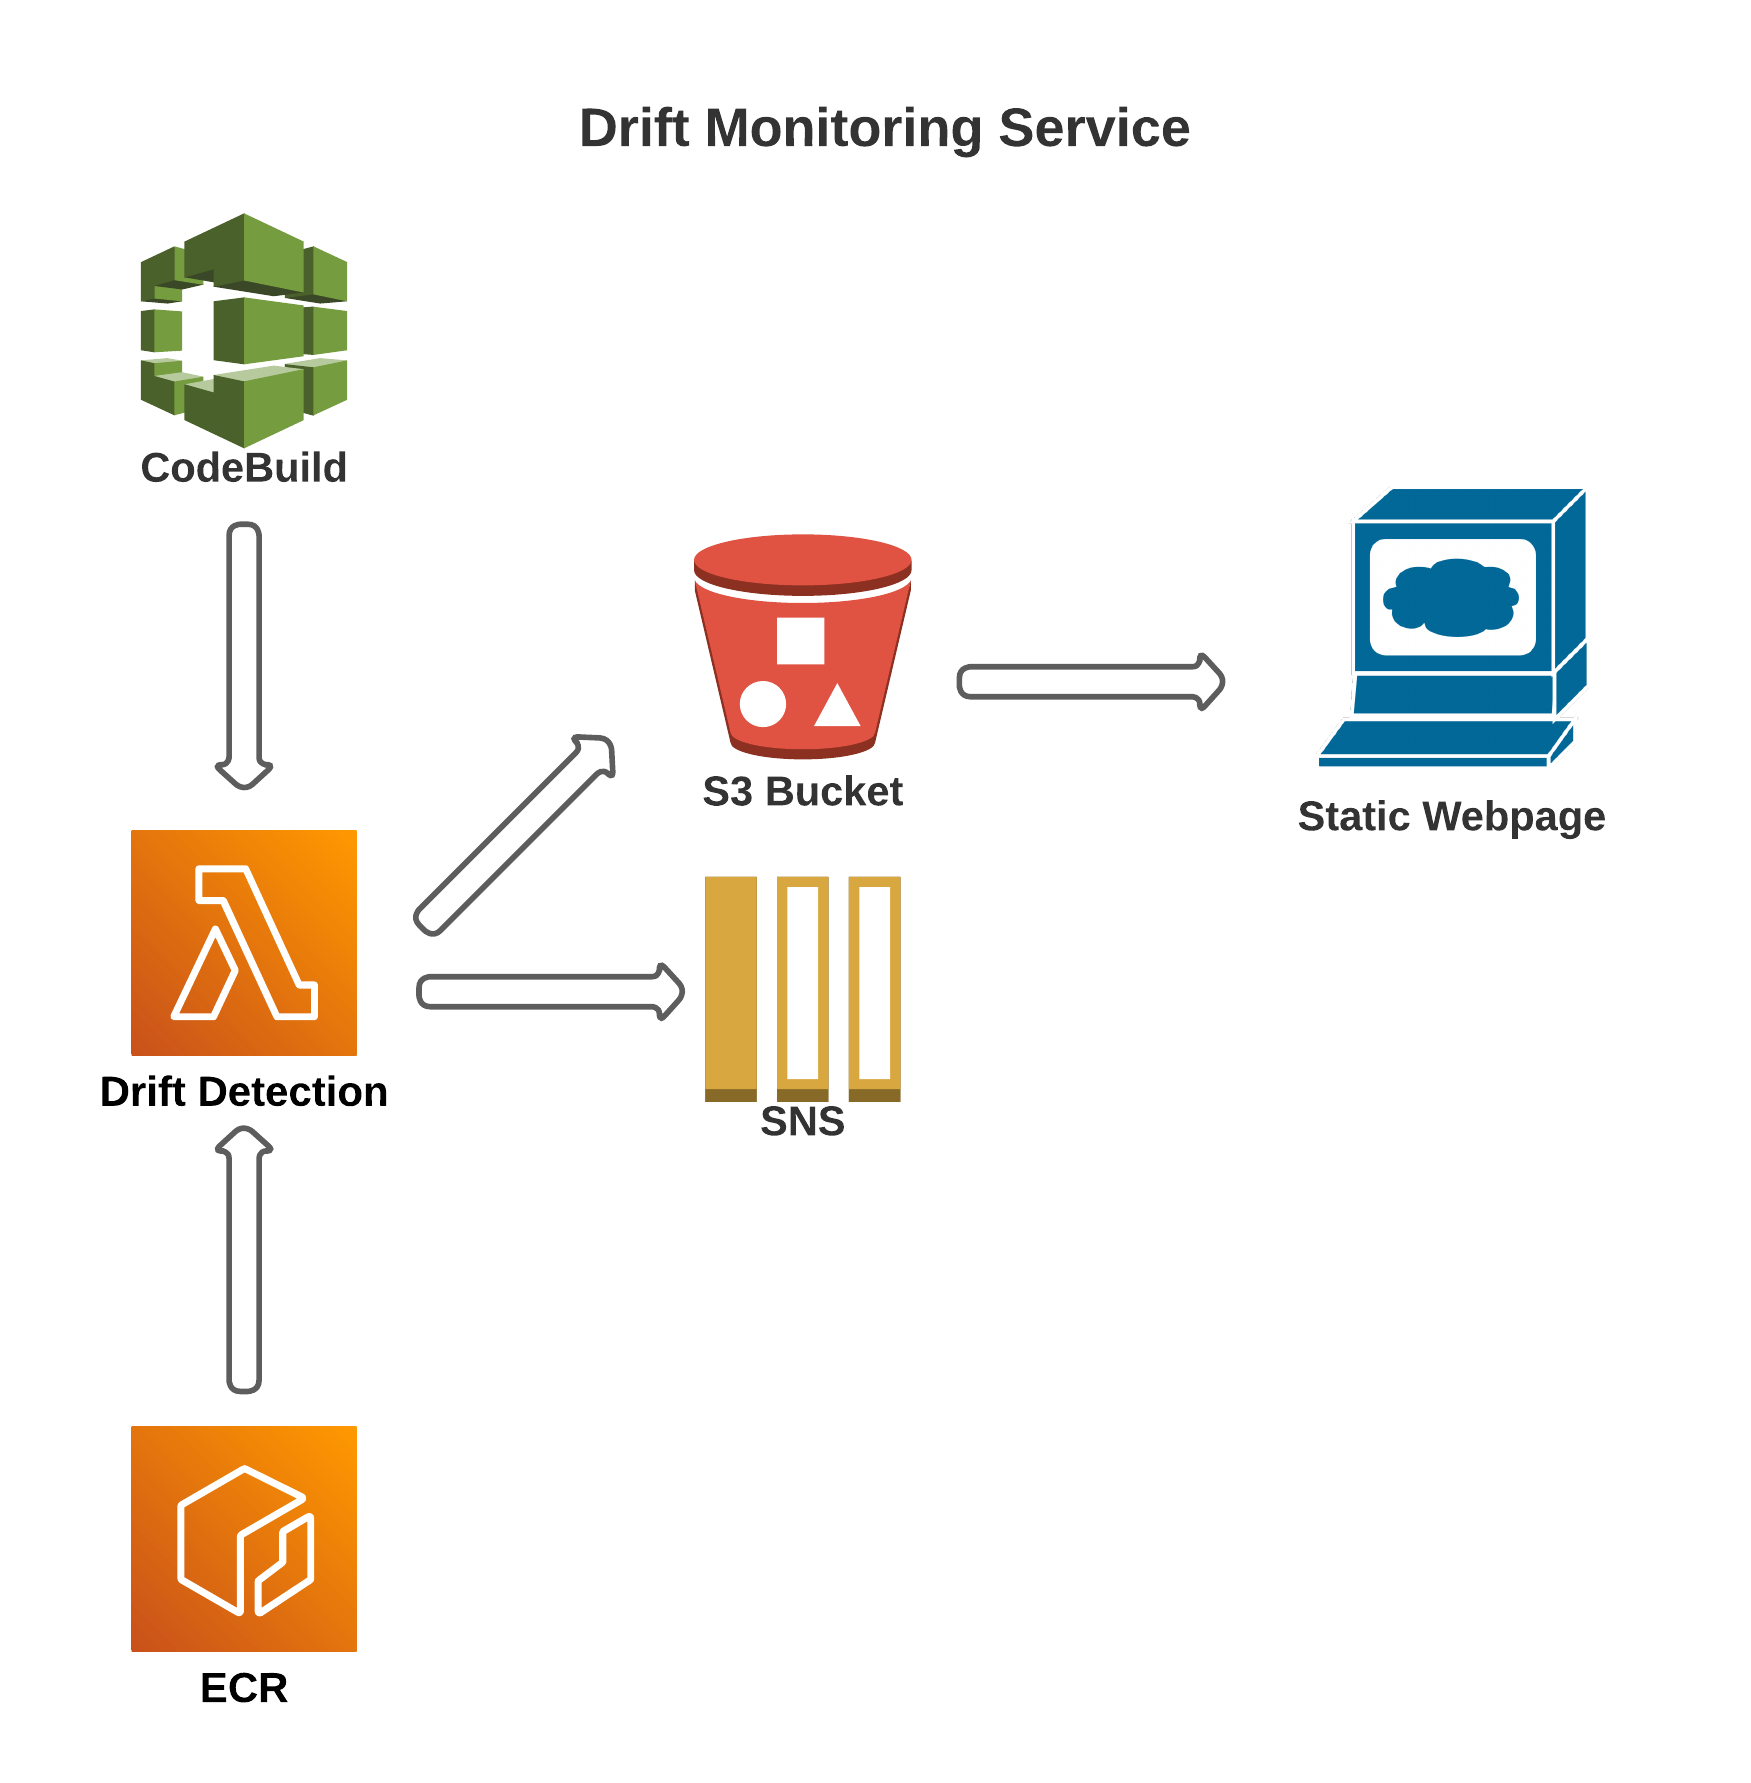
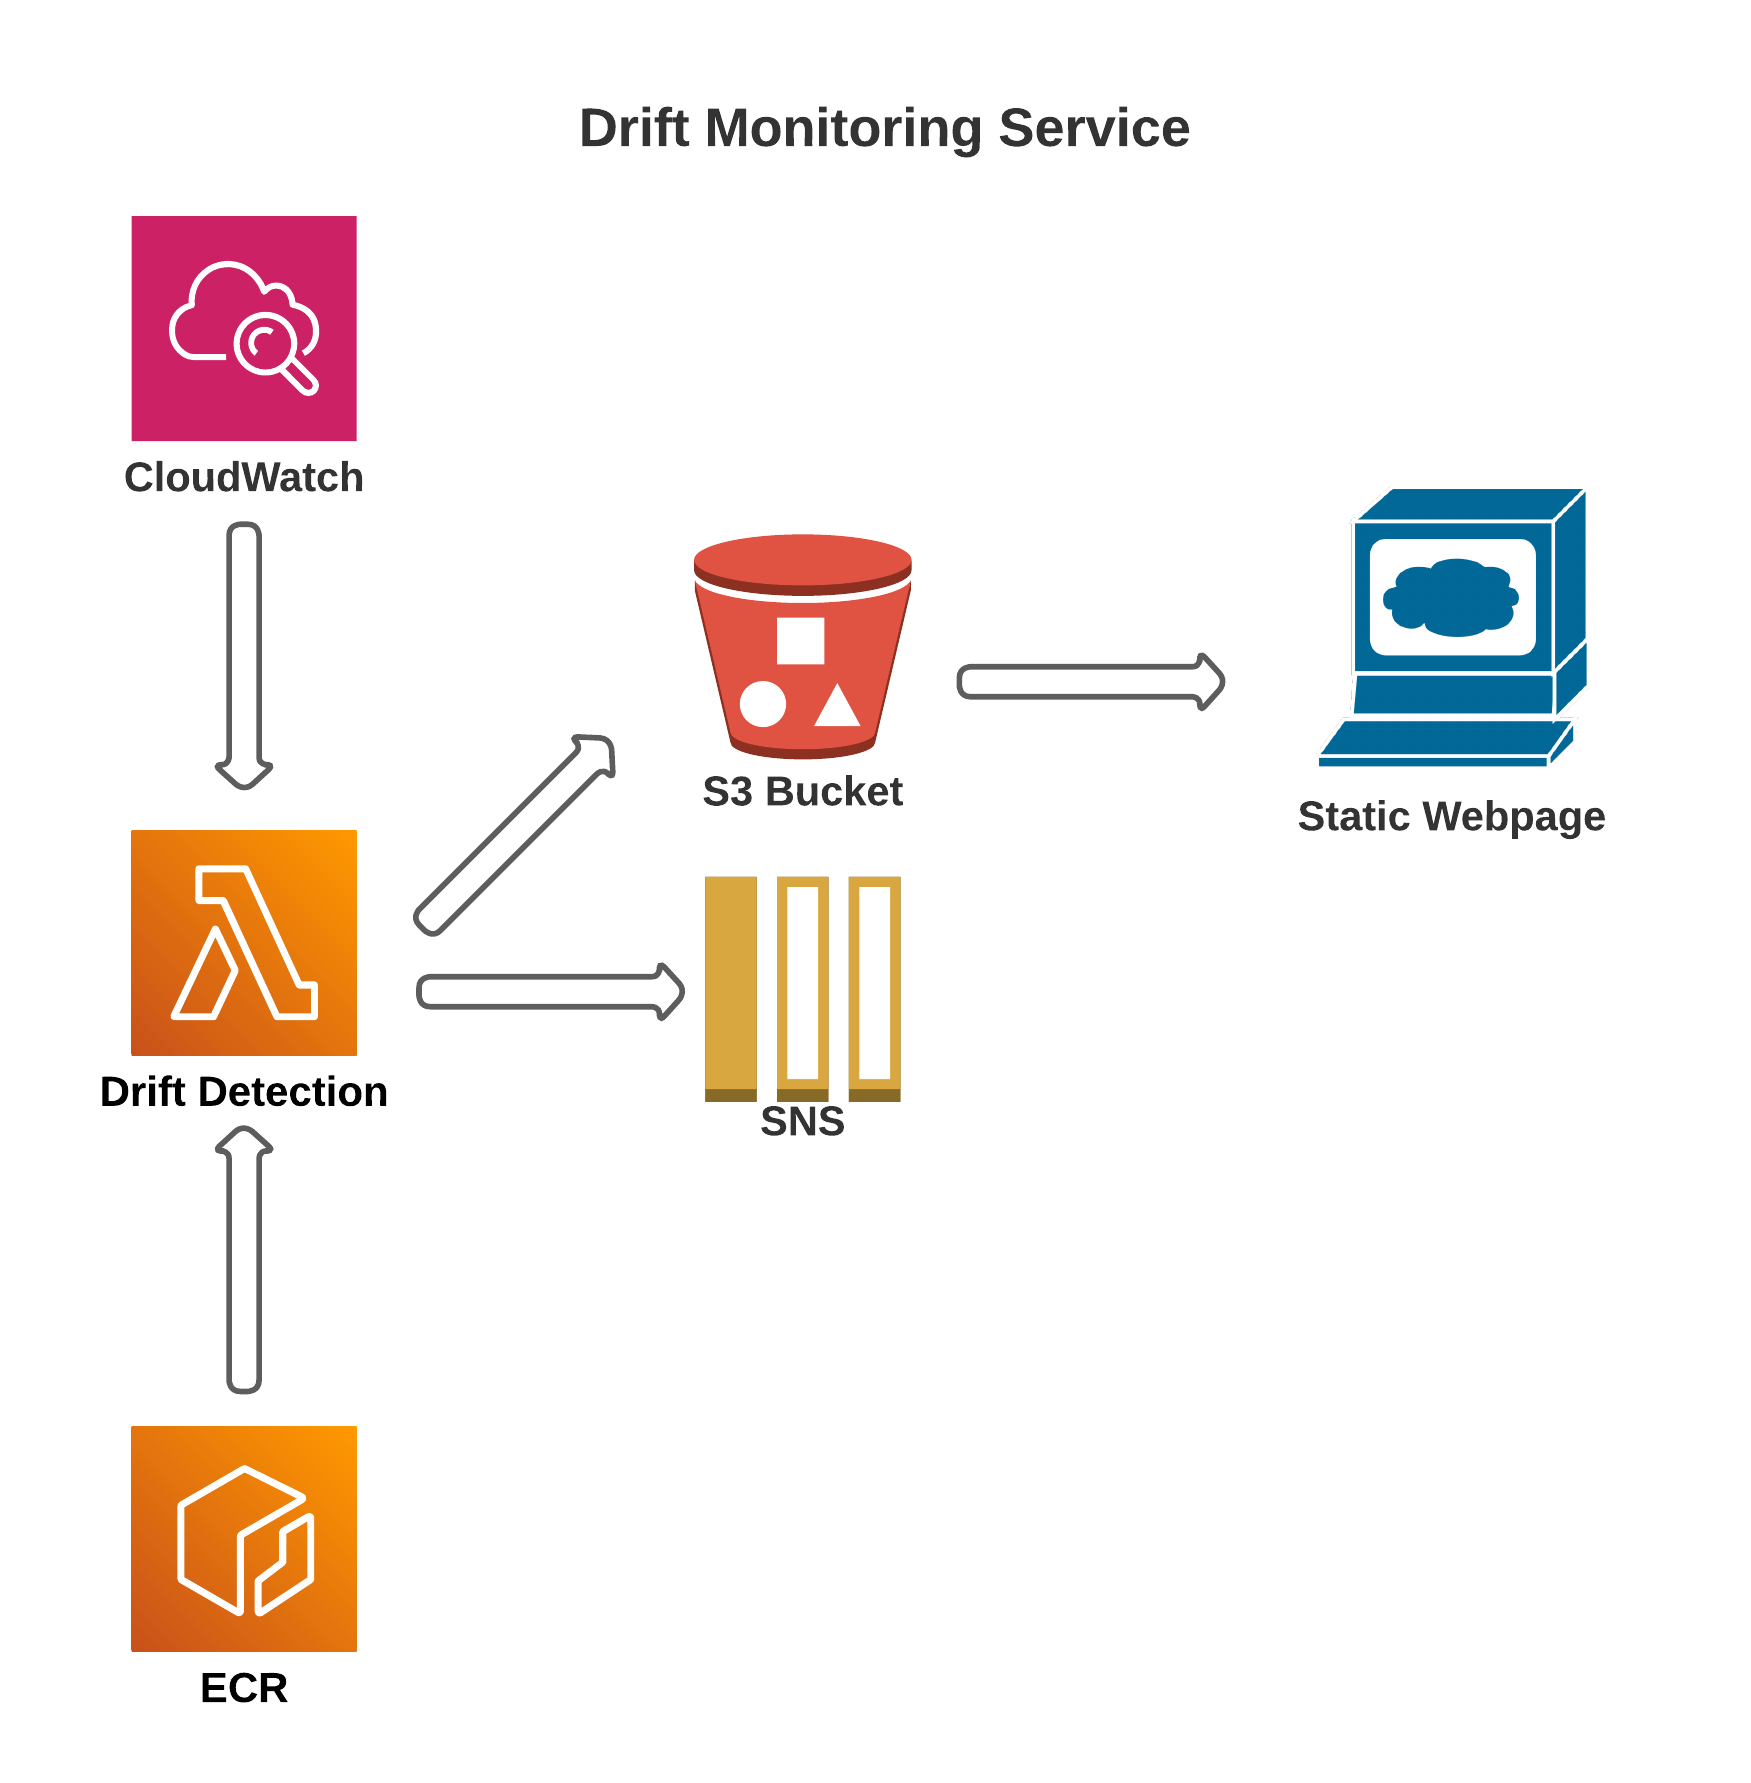
Added setup.txt file

Changed region(s): [[0.0617, 0.1234, 0.2159, 0.2776]]

diff --git a/README.md b/README.md
@@ -26,11 +26,13 @@ In this project, we focus on monitoring covariate shifts in our input feature sp
 
 This monitoring services uses the following AWS components:
 
-- CodeBuild: scheduler that triggers monitoring serving on a weekly cadence
+- EventBridge (CloudWatch Events): triggers monitoring service on a weekly cadence
 - ECR: contains Docker image of monitoring service
 - Lambda: serverless monitoring service that calculates drift, writes status to SNS and publishes HTML files for webpage
 - S3: hosts the static webpage for Evidently AI drift status
 - SNS: contains message of drift status that is emailed to client
+
+Configuration information can be located in the setup.txt file.
 
 ## References
 
